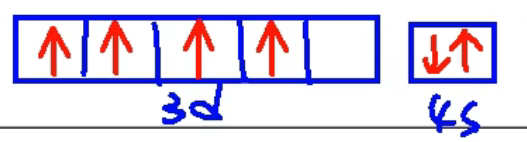
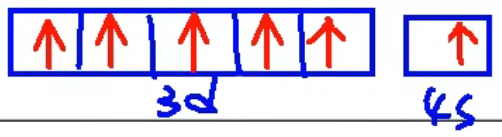
23.1.14

diff --git a/物质结构与性质/02 构造原理、泡利原理、洪特规则.md b/物质结构与性质/02 构造原理、泡利原理、洪特规则.md
@@ -18,26 +18,20 @@
 
 <img title="" src="images/2.2.png" alt="" width="271">
 
-**顺序** ：1s - 2s - 2p - 3s -  3p - 4s - 3d - 4p - 5s - 4d - 5p - 6s - ...
+**顺序** ：$1s - 2s - 2p - 3s -  3p - 4s - 3d - 4p - 5s - 4d - 5p - 6s - ...$
 
-## 泡利不相容原理
+${\displaystyle E_{1l}<E_{2l}<E_{3l}<...<E_{nl}}$
 
-**泡利原理**：在一个原子轨道里，最多只能容纳  **2**  个电子，它们的自旋  **相反** ，常用上下箭头( ↑ 和 ↓ )表示自旋相反的  **电子**  
+${\displaystyle E_{ns}<E_{np}<E_{nd}<E_{nf}}$
 
-> 
-> $_8O$ 的轨道表示式如下：
-> 
-> <img title="" src="images/2.3.png" alt="" width="271">
-> 
-> 例：根据上面回答下列问题：
-> 
-> 1. 简并轨道： **能量** 相同的原子轨道。
-> 2. 电子对：同一个原子轨道中，自旋方向  **相反**  的一对电子。
-> 3. 单电子：一个原子轨道中若只有一个电子，则该电子称为单电子。
-> 4. 自旋平行：**箭头同向**  的单电子称为自旋平行。
-> 5. 在氧原子中，有  **3**  对电子对，有  **2**  个单电子。
-> 6. 在氧原子中，有  **5**  种空间运动状态，有  **8**  种运动状态不同的电子。
-> 
+${\displaystyle E_{ns}<E_{(n-2)f}<E_{(n-1)d}<E_{np}}$
+
+我们把第三个不等式中涉及到的能级组成的集合称为能级组。
+
+  | 能级组序号 | 一   | 二     | 三     | 四     | 五     | 六     | 七   |
+  | -------- | --- | ----- | ----- | ----- | ----- | ----- | --- |
+  | **能级** | 1s | 2s 2p | 3s 3p | 4s 3d 4p | 5s 4d 5p | 6s 4f 5d 6p |7s 5f 6d 7p |
+  | **最大电子容纳量** |2   | 8 | 8 | 18 | 18 | 32 | 32   |
 
 
 ## 洪特规则
@@ -46,13 +40,14 @@
 2. 特例：在简并轨道上的电子排布处于全充满、半充满和全空状态时，具有  **较低** 的能量和  **较大** 的稳定性
    
 $$相对稳定的状态   \begin{cases}
-全充满：& p^6,d^{10},f^{14} \\
-全空：& p^0,d^{0},f^{0} \\
-半充满：& p^6,d^{5},f^{7}\\
+全充满：& s^2,p^6,d^{10},f^{14} \\
+全空：& s^0,p^0,d^{0},f^{0} \\
+半充满：& s^1,p^6,d^{5},f^{7}\\
 \end{cases}$$
+
 >
->如：$_{24}Cr$ 的电子排布式为  $1s^22s^22p^63s^23p^63d^54s^1$  ，为半充满状态，易错写为 $1s^22s^22p^63s^23p^63d^44s^2$
->
+>$_{24}Cr$ 的电子排布式为  $[Ar]3d^54s^1$  ，为半充满状态，易错写为 $[Ar]3d^44s^2$
+>$_{29}Cu$ 的电子排布式为  $[Ar]3d^{10}4s^1$  ，为全充满状态，易错写为 $[Ar]3d^94s^2$
 
 >
 > 1. 基态原子：处于**最低能量**状态的原子
@@ -63,3 +58,16 @@ $$相对稳定的状态   \begin{cases}
 ## 能量最低原理
 1. 内容：在构建基态原子时，电子将尽可能地占据  **能量最低**  的原子轨道，使整个原子的能量最  **低** 
 2. 因素：整个原子的能量由  **核电荷数**  、  **电子数**  和  **电子状态**  三个因素共同决定。
+
+
+## 原子光谱
+
+<img title="" src="images/2.4.png" alt="" width="300">
+
+### 焰色反应
+
+不同金属元素在酒精灯火焰上灼烧时会使火焰变为各种颜色，这便是焰色反应。焰色反应的形成与原子光谱有关。
+
+### 光谱分析
+
+在现代化学中，常利用原子光谱上的  **特征谱线**  来鉴定元素，称为光谱分析

diff --git a/物质结构与性质/01 核外电子排布方式.md b/物质结构与性质/01 核外电子排布方式.md
@@ -17,19 +17,34 @@
 > 原子轨道数为能层的平方
 > 每一电子层所容纳的电子数最多为 $2n^2$ 个
 
-## 电子云与电子轮廓图
+## 电子云与原子轨道
 
-> - **电子云：** 电子云是处于一定空间运动状态的电子在原子核外空间概率分布的形象化描述
+### 概率密度 
 
-> - **电子轮廓图：** 绘制电子轮廓图的目的是表示电子云轮廓的形状，对核外电子的空间状态有一个形象化的简便描述
+1913年，  **玻尔**  提出氢原子模型，电子在  **线性轨道**  上绕核运行。量子力学指出，一定空间运动状态的电子在核外空间各处都可能出现，但出现的  **概率**  不同，可用概率密度 $(ρ)$ 表示，即$$ρ＝\frac{P}{V}（P表示电子在某处出现的  概率  ；V表示该处的体积）$$
 
-## 原子轨道类型与形状
+### 电子云
 
-<img title="" src="images\1.2.jpg" alt="" width="350">  
+- 定义：处于一定空间 **运动状态** 的电子在原子核外空间的概率密度分布的形象化描述
+- 含义：用单位体积内小黑点的疏密程度表示电子在原子核外出现概率大小，小黑点越 **密** ，表示概率密度越 **大**
 
-## 原子轨道能量高低
+### 原子轨道
+- 量子力学把电子在原子核外的一个 空间运动状态  称为一个原子轨道
 
-1. 相同能层上原子轨道能量的高低：$ns<no<nd<nf$
+$$形状   \begin{cases}
+s电子云：& 球形 & 只有一种空间伸展方向 \\
+p电子云：& 哑铃形 & 有3种空间伸展方向分别相对于 x,y,z 轴对称\\
+\end{cases}$$
+
+### 原子轨道与能层序数的关系
+1. 不同能层的同种能级的原子轨道形状  **相同**  ，只是半径  **不同**  。能层序数 $n$ 越  **大**  ，原子轨道的半径越  **大**  
+ 
+2. $s$ 能级只有 $1$ 个原子轨道。$p$ 能级有 $3$ 个原子轨道，它们互相垂直，分别以 $p_x、p_y、p_z$ 表示
+3. 原子轨道数与能层序数 $(n)$ 的关系：原子轨道数目＝$n^2$  
+
+### 原子轨道能量高低
+
+1. 相同能层上原子轨道能量的高低：$ns<np<nd<nf$
 
 2. 形状相同的原子轨道能量的高低：$1s<2s<3s<4s<...$
 

diff --git a/物质结构与性质/04 原子结构与元素周期表.md b/物质结构与性质/04 原子结构与元素周期表.md
@@ -1,6 +1,6 @@
 # 物质结构与性质 · 四 · 原子结构与元素周期表
 ![](images/4.1.png)
-类金属：$Te,Sb,B,Ge,As,Si$（记忆：弟弟捧着神龟-碲锑硼锗砷硅）
+> 类金属：$Te,Sb,B,Ge,As,Si$（记忆：弟弟捧着神龟-碲锑硼锗砷硅）
 
 ## 核外电子排布与周期的划分
 
@@ -47,7 +47,7 @@
 
 ## 各族元素价层电子排布特点
 
-- **主族**：$ns^1→ns^2np^5$，且主族序数$(n)$=最外层电子书=价层电子数
+- **主族**：$ns^1→ns^2np^5$，且主族序数$(n)$=最外层电子数=价层电子数
 - **0族**：$He$为$1s^2$，其他为$ns^2np^6$（最外层 $8$ 电子）
 - **过渡元素**（全部都是金属，最外层电子数不超 $2$ ）
    1. $ⅢB$族~$ⅤⅡB$族：
@@ -66,4 +66,3 @@
 除$ds$区外，**各区的名称来自按构造原理最后填入电子的能级符号**
 
 <img title="元素周期表的分区" src="images\4.4.png" alt="" data-align="inline">
-

diff --git a/物质结构与性质/03 电子排布式与轨道表示式.md b/物质结构与性质/03 电子排布式与轨道表示式.md
@@ -2,9 +2,6 @@
 
 > 价层电子排布式书写规则是处于稳定状态的原子，核外电子将尽可能地按能量最低原理排布
 
-
-
-
 <table>
     <tr>
         <th rowspan="3">电子排布式</th>
